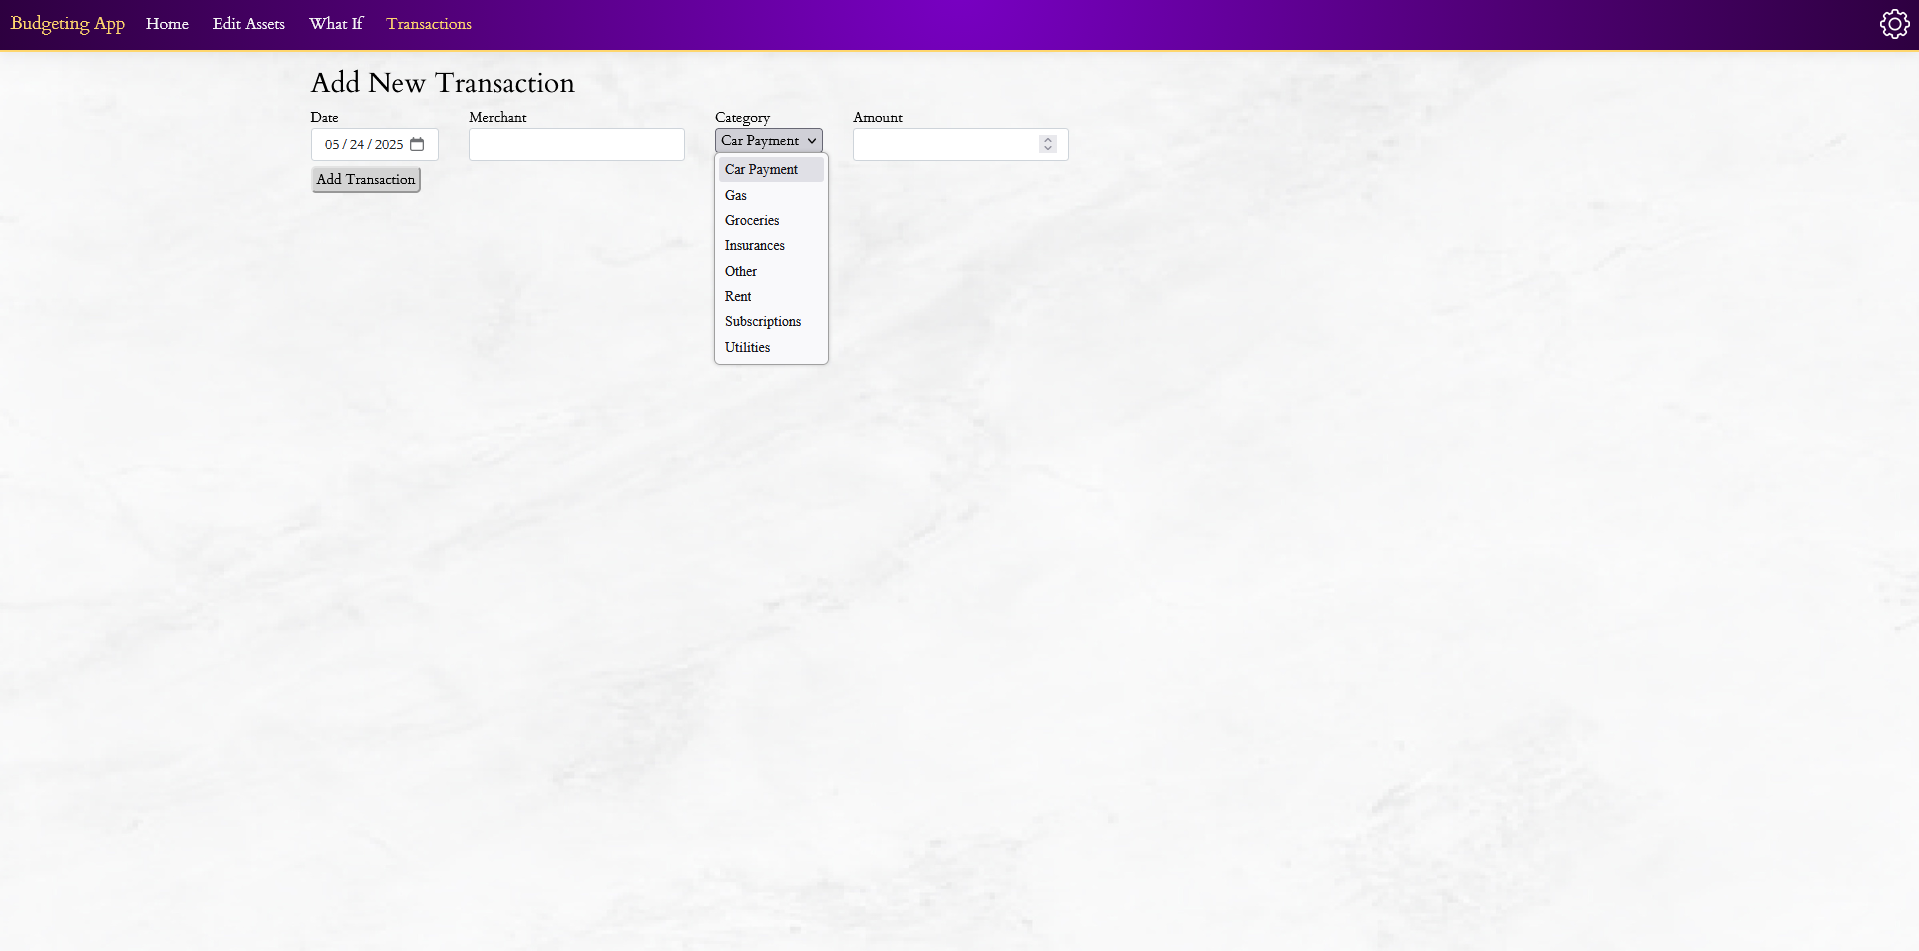
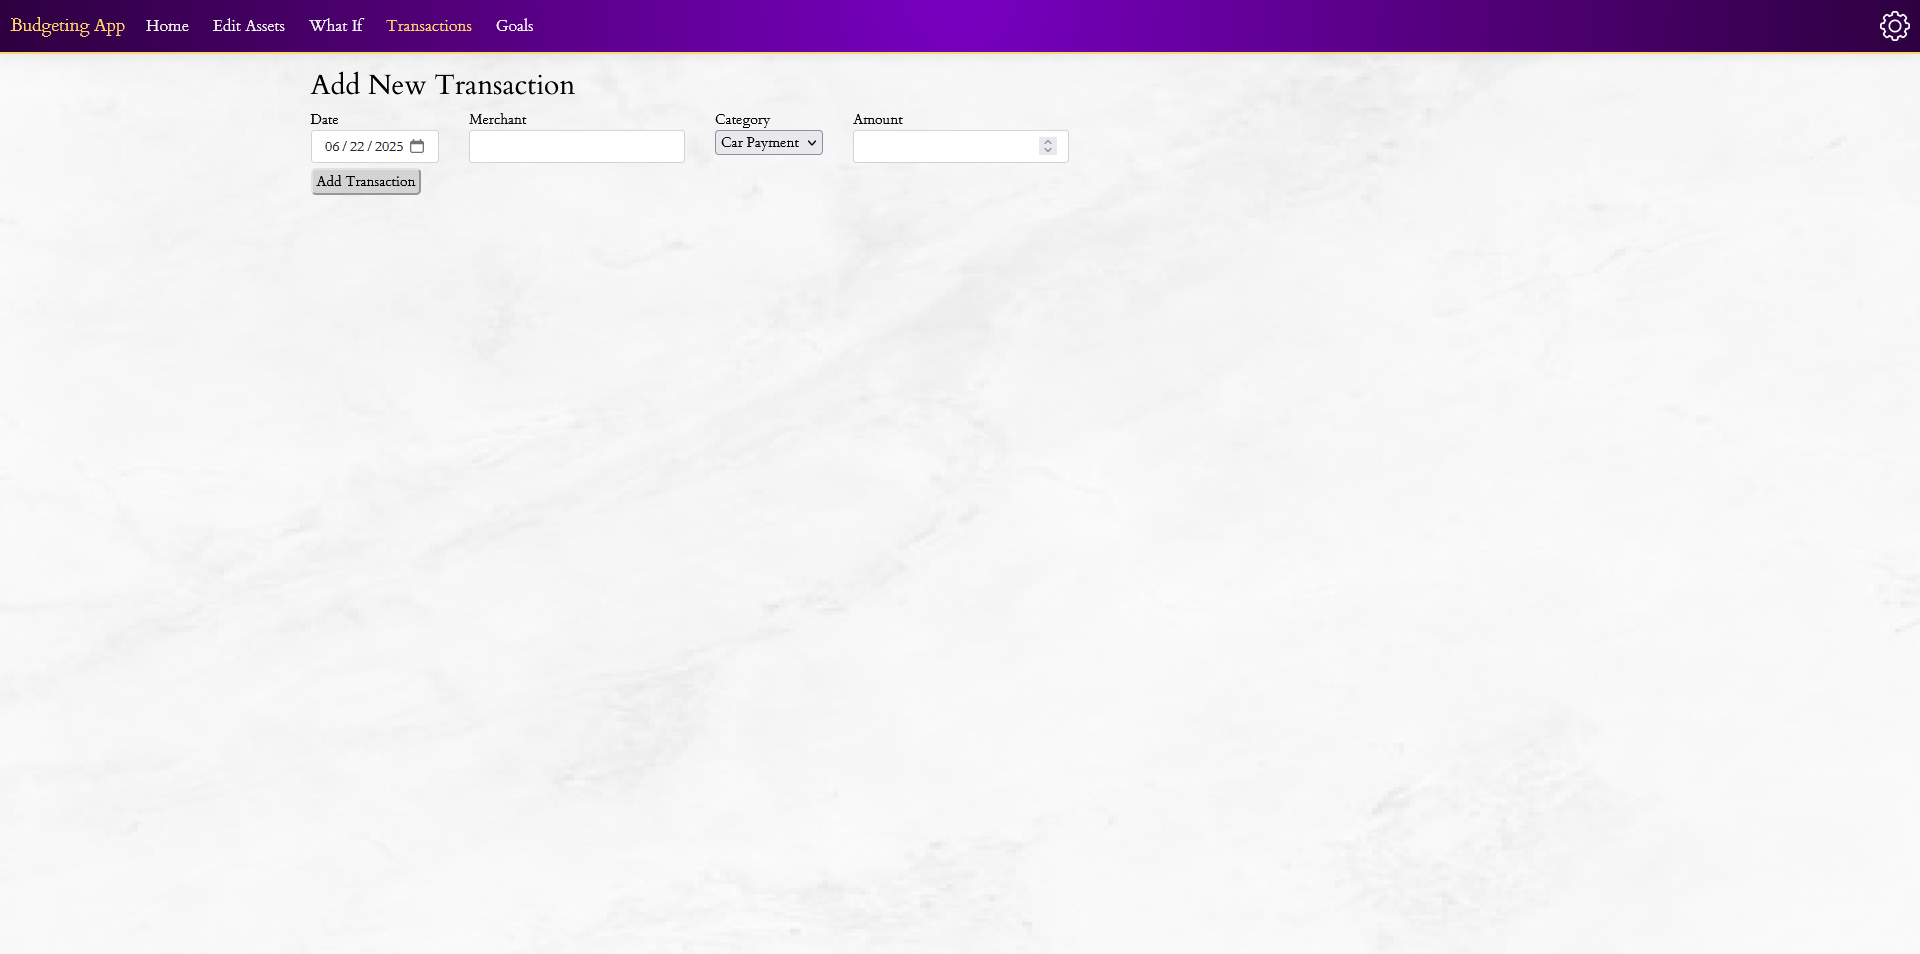
Implement Add Goal and update demo screenshots.

Changed region(s): [[0.0, 0.0, 1.0, 0.2135], [0.3689, 0.122, 0.5534, 0.183], [0.3689, 0.2135, 0.4304, 0.3964]]

diff --git a/BudgetingApp/Controllers/HomeController.cs b/BudgetingApp/Controllers/HomeController.cs
@@ -1101,7 +1101,6 @@ namespace BudgetingApp.Controllers
                     else
                         _logger.LogWarning($"Unexpected data type for 'username' in goal document {currentSnapshot.Id}");
 
-                    Console.WriteLine("\n" + goal.SavedAmount + "\n");
 
                     goals.Add(goal);
                 }
@@ -1238,7 +1237,7 @@ namespace BudgetingApp.Controllers
                 else
                     Console.WriteLine("No changes detected, not updating Firestore.");
 
-                return RedirectToAction("Goals"); // Redirect to the Goals list after successful update
+                return RedirectToAction("Goals"); 
             }
 
             // ModelState is not valid
@@ -1256,6 +1255,46 @@ namespace BudgetingApp.Controllers
             }
 
             return View("Goals"); 
+        }
+
+        [HttpGet]
+        public IActionResult AddGoal()
+        {
+            // Determine who is currently logged in
+            string currentUser = HttpContext.Session.GetString("Username");
+
+            // Redirect to the login page if the user is not signed in
+            if (string.IsNullOrEmpty(currentUser))
+                return RedirectToAction("Login", "Auth");
+
+            return View();
+        }
+
+        [HttpPost]
+        public async Task<IActionResult> AddGoal(GoalModel model)
+        {
+            // Determine who is currently logged in
+            string currentUser = HttpContext.Session.GetString("Username");
+
+            // Redirect to the login page if the user is not signed in
+            if (string.IsNullOrEmpty(currentUser))
+                return RedirectToAction("Login", "Auth");
+
+            // Convert the new goal to a dictionary
+            Dictionary<string, object> goal = new Dictionary<string, object>
+            {
+                { "username", currentUser },
+                { "goalName", model.GoalName },
+                { "goalAmount", model.GoalAmount },
+                { "goalPriority", model.GoalPriority },
+                { "goalDate", DateTime.SpecifyKind(model.GoalDate, DateTimeKind.Utc) },
+                { "savedAmount", model.SavedAmount }
+            };
+
+            // Add the goal to the Firestore
+            DocumentReference addedGoal = await _firestoreDb.Collection(_goalsCollection).AddAsync(goal);
+
+            return RedirectToAction("Goals");
         }
     }
 }
